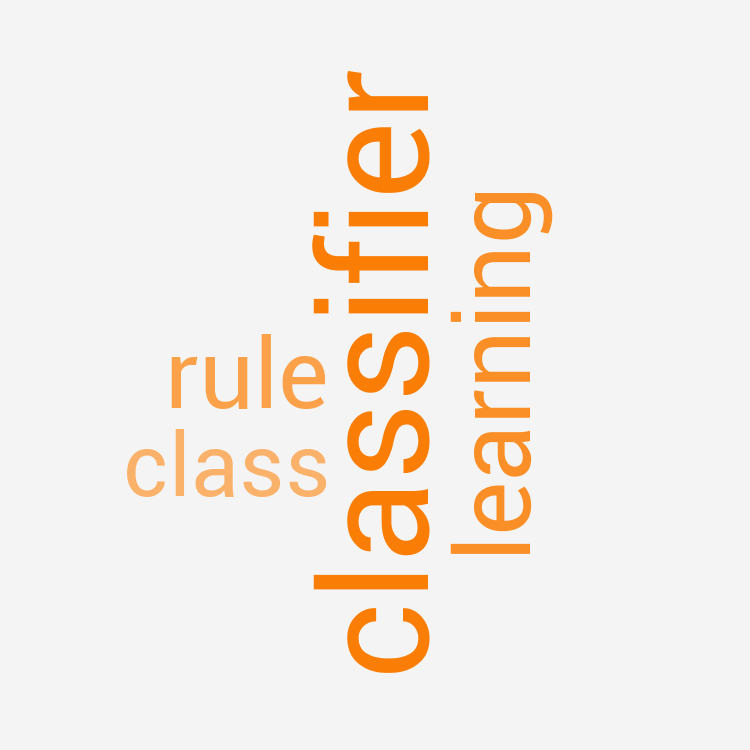
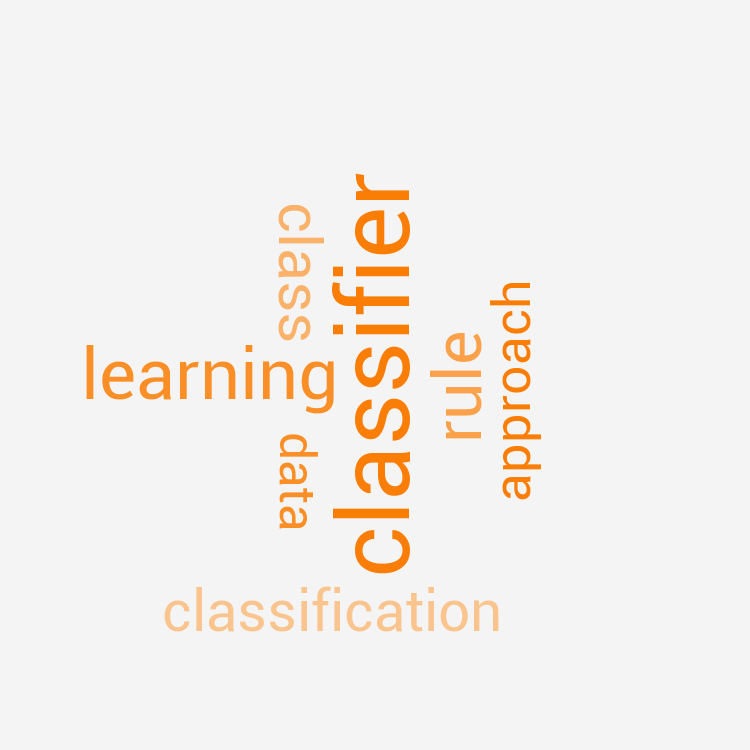
Changed number of words on words clouds

Changed region(s): [[0.092, 0.092, 0.736, 0.92]]

diff --git a/src/main/java/pl/poznan/put/fc/gi/frontend/utils/WordsCloudGeneratorUtil.java b/src/main/java/pl/poznan/put/fc/gi/frontend/utils/WordsCloudGeneratorUtil.java
@@ -31,7 +31,7 @@ public class WordsCloudGeneratorUtil {
         List<Integer> years = DatabaseHandlerUtil.getYearsWithArticles();
         for (int year : years) {
             List<WordFrequency> wordFrequencies = DatabaseHandlerUtil.getWordsFrequencyListFromYear(year);
-            generateWordsCloudImage(wordFrequencies.subList(0, 5), year + "_mini.png");
+            generateWordsCloudImage(wordFrequencies.subList(0, 7), year + "_mini.png");
             generateWordsCloudImage(wordFrequencies, year + ".png");
         }
     }
@@ -50,7 +50,7 @@ public class WordsCloudGeneratorUtil {
                 new Color(0xFAC48E)
         ));
         wordCloud.setKumoFont(new KumoFont(ClassLoader.class.getResourceAsStream("/font/Roboto-Regular.ttf")));
-        wordCloud.setFontScalar(new LinearFontScalar(10, 100 + (15 - wordFrequencies.size()) * 5));
+        wordCloud.setFontScalar(new LinearFontScalar(10, 100));
         wordCloud.build(wordFrequencies.subList(0, wordFrequencies.size()));
         wordCloud.writeToFile("output/" + filename);
     }

diff --git a/src/main/java/pl/poznan/put/fc/gi/frontend/utils/DatabaseHandlerUtil.java b/src/main/java/pl/poznan/put/fc/gi/frontend/utils/DatabaseHandlerUtil.java
@@ -20,7 +20,7 @@ public abstract class DatabaseHandlerUtil {
             "JOIN weights ON weights.type = terms.type " +
             "GROUP BY term " +
             "ORDER BY val DESC " +
-            "LIMIT 15";
+            "LIMIT 20";
     private static final String wordsYearQuery = "SELECT term, SUM(count*weight) AS val " +
             "FROM articles " +
             "JOIN terms ON articles.id = terms.article " +
@@ -28,7 +28,7 @@ public abstract class DatabaseHandlerUtil {
             "WHERE date = ? " +
             "GROUP BY term " +
             "ORDER BY val DESC " +
-            "LIMIT 15";
+            "LIMIT 20";
     private static final String yearsWithArticlesQuery = "SELECT DISTINCT date FROM articles ORDER BY date";
     private static final String allArticlesQuery = "SELECT id, title, authors, date FROM articles ORDER BY date";
     private static final String yearArticlesQuery = "SELECT id, title, authors, date " +
